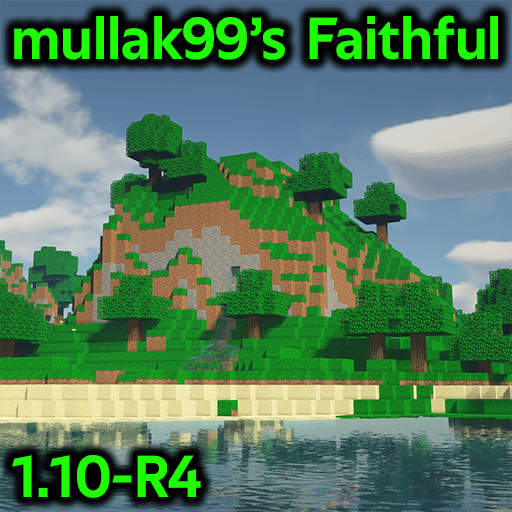
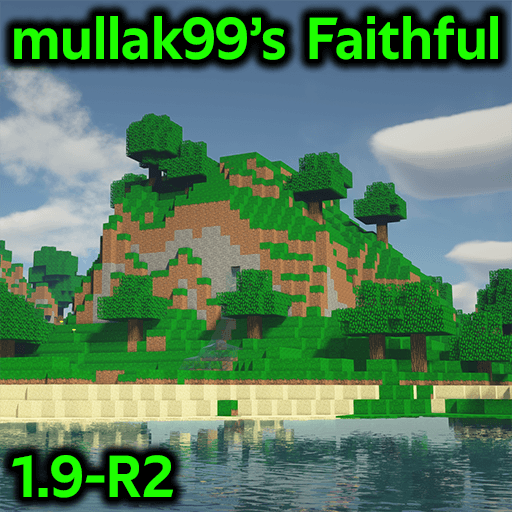
MC1.9-R2

Changed region(s): [[0.0625, 0.8438, 0.4375, 1.0]]

diff --git a/ChangeLog.md b/ChangeLog.md
@@ -1,37 +1,9 @@
 # Changelog
 All notable changes to mullak99's Faithful will be documented in this file.
 
-## [MC1.10-R4] - 2021-12-27
+## [MC1.9-R2] - 2021-12-27
 ### Changed
-- Included changes / brought up-to-date with MC1.11-R2
-
-## [MC1.10-R3] - 2016-09-19
-### Fixed
-- Fixed bugged CTM textures.
-- Fixed Inventory GUI.
-
-## [MC1.10-R2] - 2016-08-27
-### Added
-- Added custom models.
-
-### Fixed
-- Actually added new blockstates.
-
-## [MC1.10-R1] - 2016-08-26
-### Added
-- Added 1.10 Block textures.
-- Added 1.10 Item textures.
-- Added 1.10 Entity textures.
-- Added Realms GUI textures.
-- Added more CTM.
-- Added new blockstates.
-- Added missing Alex texture.
-
-### Changed
-- Tweaked Brewing GUI.
-- Tweaked Bow textures.
-- Tweaked Normal/Spectral/Tipped Arrow Entity textures.
-- Tweaked Hunger Bar textures.
+- Included changes / brought up-to-date with MC1.10-R4
 
 ## [MC1.9-R1] - 2016-04-29
 ### Added

diff --git a/README.md b/README.md
@@ -1,6 +1,6 @@
 # mullak99's Faithful 32x
 
-**Current Branch Version:** _MC1.10-R4_  
+**Current Branch Version:** _MC1.9-R2_  
 
 ## Official Links
 
